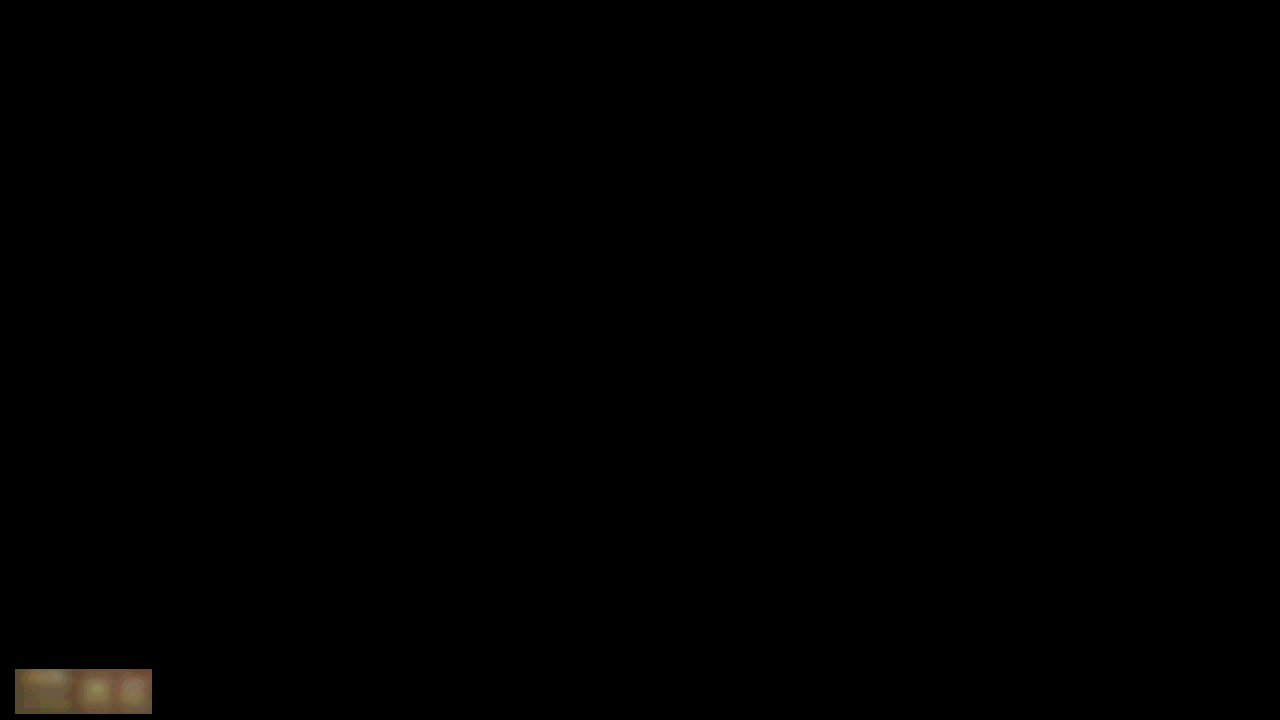
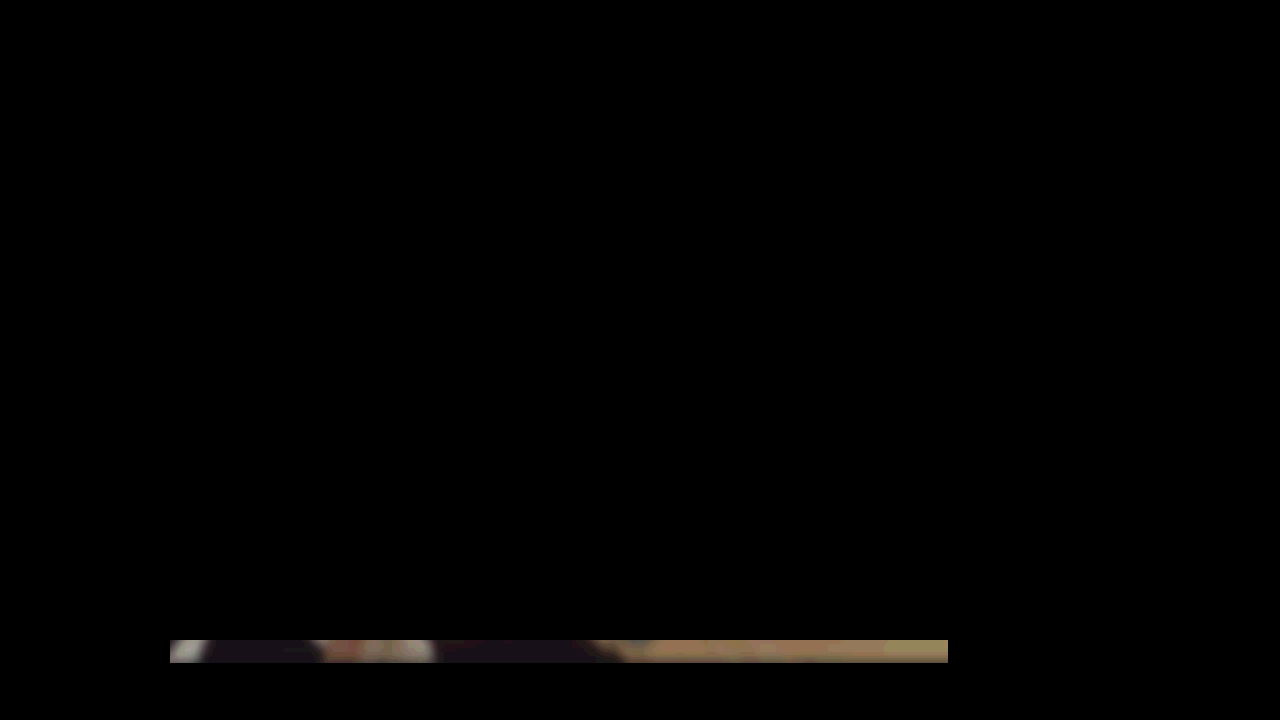
Upd: Dorm menu assets CN

Changed region(s): [[0.4375, 0.8861, 0.75, 0.9472], [0.0, 0.8861, 0.1875, 1.0], [0.2188, 0.8861, 0.375, 0.9472]]

diff --git a/module/ui/assets.py b/module/ui/assets.py
@@ -29,7 +29,7 @@ DAILY_CHECK = Button(area={'cn': (23, 656, 67, 698), 'en': (23, 656, 67, 698), '
 DORMMENU_CHECK = Button(area={'cn': (261, 487, 334, 587), 'en': (225, 265, 401, 350), 'jp': (203, 248, 409, 450), 'tw': (248, 270, 363, 359)}, color={'cn': (181, 172, 178), 'en': (169, 168, 173), 'jp': (144, 155, 168), 'tw': (194, 187, 184)}, button={'cn': (261, 487, 334, 587), 'en': (225, 265, 401, 350), 'jp': (203, 248, 409, 450), 'tw': (248, 270, 363, 359)}, file={'cn': './assets/cn/ui/DORMMENU_CHECK.png', 'en': './assets/en/ui/DORMMENU_CHECK.png', 'jp': './assets/jp/ui/DORMMENU_CHECK.png', 'tw': './assets/tw/ui/DORMMENU_CHECK.png'})
 DORMMENU_GOTO_ACADEMY = Button(area={'cn': (261, 487, 334, 587), 'en': (225, 265, 401, 350), 'jp': (217, 253, 389, 452), 'tw': (248, 270, 363, 359)}, color={'cn': (181, 172, 178), 'en': (169, 168, 173), 'jp': (154, 162, 171), 'tw': (194, 187, 184)}, button={'cn': (261, 487, 334, 587), 'en': (225, 265, 401, 350), 'jp': (217, 253, 389, 452), 'tw': (248, 270, 363, 359)}, file={'cn': './assets/cn/ui/DORMMENU_GOTO_ACADEMY.png', 'en': './assets/en/ui/DORMMENU_GOTO_ACADEMY.png', 'jp': './assets/jp/ui/DORMMENU_GOTO_ACADEMY.png', 'tw': './assets/tw/ui/DORMMENU_GOTO_ACADEMY.png'})
 DORMMENU_GOTO_DORM = Button(area={'cn': (408, 494, 541, 587), 'en': (568, 289, 725, 423), 'jp': (536, 253, 746, 449), 'tw': (568, 289, 725, 423)}, color={'cn': (167, 148, 137), 'en': (167, 153, 158), 'jp': (154, 143, 152), 'tw': (167, 153, 158)}, button={'cn': (408, 494, 541, 587), 'en': (568, 289, 725, 423), 'jp': (536, 253, 746, 449), 'tw': (568, 289, 725, 423)}, file={'cn': './assets/cn/ui/DORMMENU_GOTO_DORM.png', 'en': './assets/en/ui/DORMMENU_GOTO_DORM.png', 'jp': './assets/jp/ui/DORMMENU_GOTO_DORM.png', 'tw': './assets/tw/ui/DORMMENU_GOTO_DORM.png'})
-DORMMENU_GOTO_MAIN = Button(area={'cn': (408, 494, 541, 587), 'en': (568, 289, 725, 423), 'jp': (568, 289, 725, 423), 'tw': (568, 289, 725, 423)}, color={'cn': (167, 148, 137), 'en': (167, 153, 158), 'jp': (167, 153, 158), 'tw': (167, 153, 158)}, button={'cn': (15, 669, 152, 714), 'en': (401, 608, 889, 686), 'jp': (401, 608, 889, 686), 'tw': (401, 608, 889, 686)}, file={'cn': './assets/cn/ui/DORMMENU_GOTO_MAIN.png', 'en': './assets/en/ui/DORMMENU_GOTO_MAIN.png', 'jp': './assets/jp/ui/DORMMENU_GOTO_MAIN.png', 'tw': './assets/tw/ui/DORMMENU_GOTO_MAIN.png'})
+DORMMENU_GOTO_MAIN = Button(area={'cn': (408, 494, 541, 587), 'en': (568, 289, 725, 423), 'jp': (568, 289, 725, 423), 'tw': (568, 289, 725, 423)}, color={'cn': (167, 148, 137), 'en': (167, 153, 158), 'jp': (167, 153, 158), 'tw': (167, 153, 158)}, button={'cn': (170, 640, 948, 663), 'en': (401, 608, 889, 686), 'jp': (401, 608, 889, 686), 'tw': (401, 608, 889, 686)}, file={'cn': './assets/cn/ui/DORMMENU_GOTO_MAIN.png', 'en': './assets/en/ui/DORMMENU_GOTO_MAIN.png', 'jp': './assets/jp/ui/DORMMENU_GOTO_MAIN.png', 'tw': './assets/tw/ui/DORMMENU_GOTO_MAIN.png'})
 DORMMENU_GOTO_MEOWFFICER = Button(area={'cn': (634, 512, 749, 569), 'en': (983, 280, 1073, 348), 'jp': (867, 254, 1078, 450), 'tw': (964, 273, 1061, 426)}, color={'cn': (144, 153, 176), 'en': (199, 182, 163), 'jp': (192, 164, 136), 'tw': (199, 178, 153)}, button={'cn': (634, 512, 749, 569), 'en': (983, 280, 1073, 348), 'jp': (867, 254, 1078, 450), 'tw': (964, 273, 1061, 426)}, file={'cn': './assets/cn/ui/DORMMENU_GOTO_MEOWFFICER.png', 'en': './assets/en/ui/DORMMENU_GOTO_MEOWFFICER.png', 'jp': './assets/jp/ui/DORMMENU_GOTO_MEOWFFICER.png', 'tw': './assets/tw/ui/DORMMENU_GOTO_MEOWFFICER.png'})
 DORM_CHECK = Button(area={'cn': (949, 600, 1005, 654), 'en': (949, 600, 1005, 654), 'jp': (949, 600, 1005, 654), 'tw': (949, 600, 1005, 654)}, color={'cn': (255, 244, 209), 'en': (255, 244, 209), 'jp': (255, 244, 209), 'tw': (255, 244, 209)}, button={'cn': (949, 600, 1005, 654), 'en': (949, 600, 1005, 654), 'jp': (949, 600, 1005, 654), 'tw': (949, 600, 1005, 654)}, file={'cn': './assets/cn/ui/DORM_CHECK.png', 'en': './assets/en/ui/DORM_CHECK.png', 'jp': './assets/jp/ui/DORM_CHECK.png', 'tw': './assets/tw/ui/DORM_CHECK.png'})
 DORM_FEED_CANCEL = Button(area={'cn': (494, 510, 547, 536), 'en': (445, 491, 594, 552), 'jp': (466, 510, 519, 536), 'tw': (484, 509, 557, 540)}, color={'cn': (196, 161, 109), 'en': (240, 200, 125), 'jp': (194, 160, 108), 'tw': (212, 174, 110)}, button={'cn': (494, 510, 547, 536), 'en': (445, 491, 594, 552), 'jp': (466, 510, 519, 536), 'tw': (484, 509, 557, 540)}, file={'cn': './assets/cn/ui/DORM_FEED_CANCEL.png', 'en': './assets/en/ui/DORM_FEED_CANCEL.png', 'jp': './assets/jp/ui/DORM_FEED_CANCEL.png', 'tw': './assets/tw/ui/DORM_FEED_CANCEL.png'})
